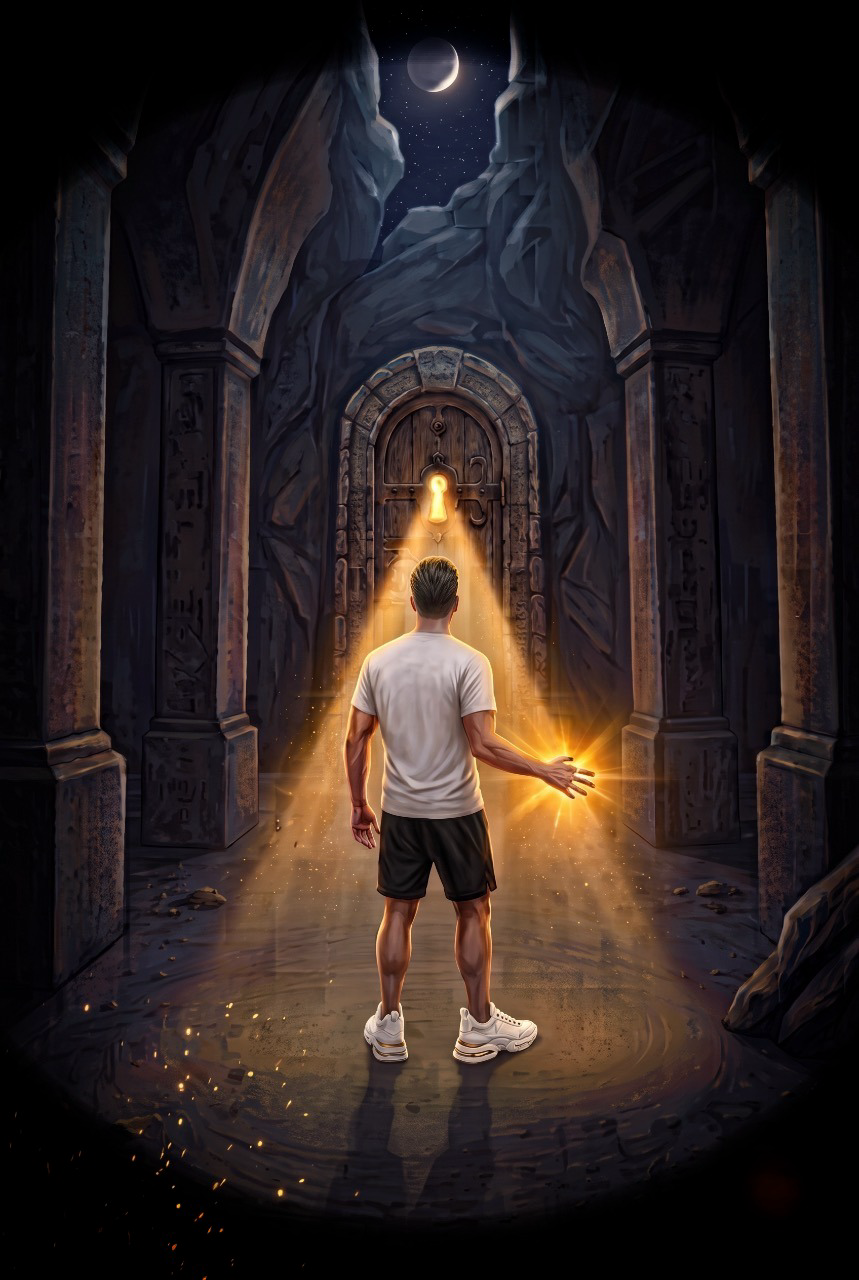
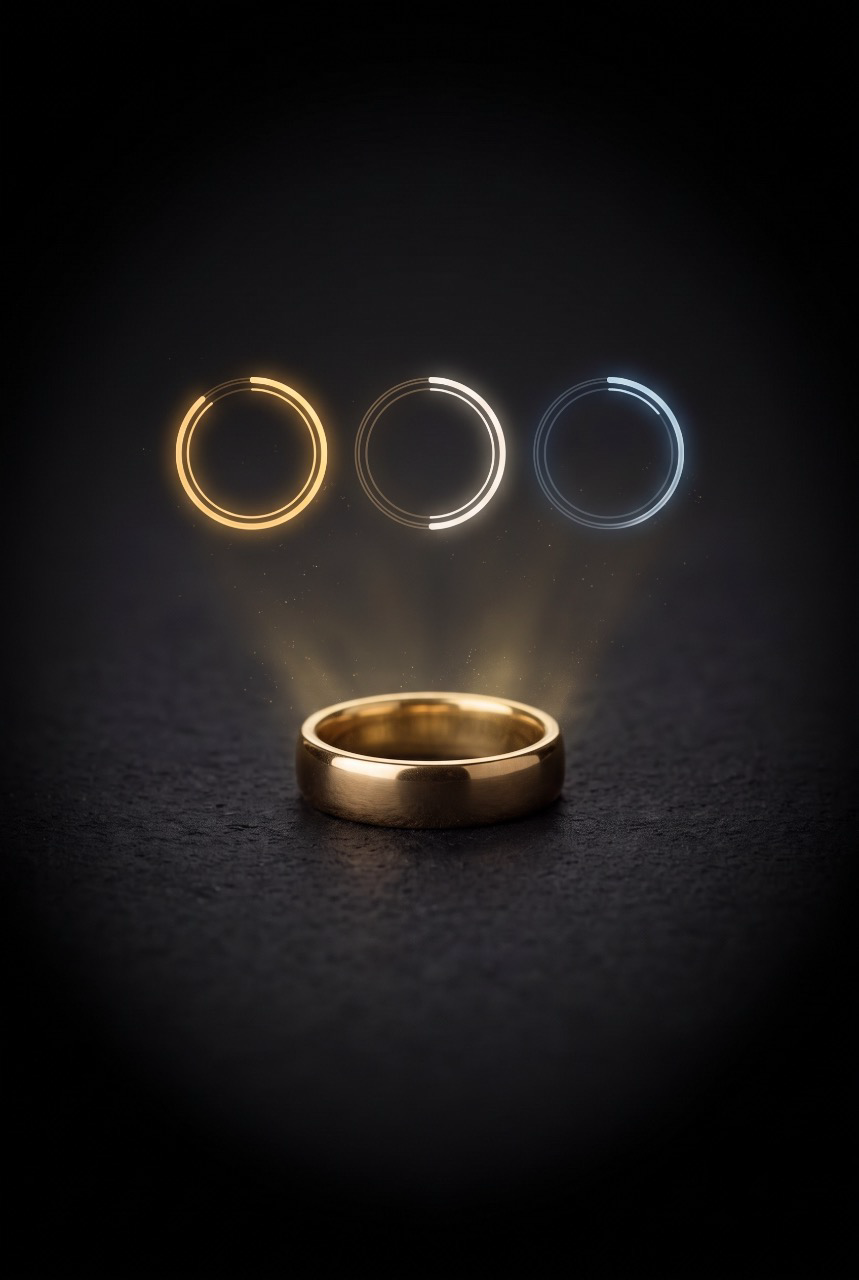
Слайды 3–4: новые рисунки и тексты, песочные часы на пустом дне, календарь без подписи
- step-3.png и step-4.png заменены на upd3 и upd4; тексты: «Три показателя дня» и «Персональный совет»;
- экран калибровки: песочные часы вместо логотипа;
- в листе календаря убрана подпись «Точка — за день есть Итог».

diff --git a/src/ui/Calibration.tsx b/src/ui/Calibration.tsx
@@ -1,5 +1,5 @@
 import { StyleSheet, Text, View } from 'react-native';
-import { Logo } from './Logo';
+import Svg, { Path } from 'react-native-svg';
 import { colors, spacing } from './theme';
 
 export const CALIBRATION_TITLE = 'Считаем вашу активность';
@@ -9,13 +9,25 @@ export const CALIBRATION_TEXT =
 export const CALIBRATION_PAST_TEXT = 'За этот день данных недостаточно.';
 
 /**
- * «Сегодня» для дня без всех трёх метрик. Частичные метрики и шаги здесь не показываем,
+ * «Сегодня» для дня без всех трёх метрик: песочные часы вместо логотипа. Частичные метрики и шаги здесь не показываем,
  * даже если что-то уже есть: неполная картина дня выглядела бы как оценка.
  */
+/** Песочные часы: данные ещё копятся. */
+function Hourglass({ size = 64 }: { size?: number }) {
+  const p = { stroke: colors.accent, strokeWidth: 1.6, strokeLinecap: 'round' as const, strokeLinejoin: 'round' as const };
+  return (
+    <Svg width={size} height={size} viewBox="0 0 24 24">
+      <Path {...p} fill="none" d="M6 3h12M6 21h12M7 3c0 4.5 5 6 5 9s-5 4.5-5 9M17 3c0 4.5-5 6-5 9s5 4.5 5 9" />
+      <Path d="M9.2 18.6c.9-1.4 2.8-2.1 2.8-3.6 0 1.5 1.9 2.2 2.8 3.6z" fill={colors.accent} opacity={0.85} />
+      <Path d="M9.8 6.8h4.4c-.6 1-1.4 1.6-2.2 2.2-.8-.6-1.6-1.2-2.2-2.2z" fill={colors.accent} opacity={0.5} />
+    </Svg>
+  );
+}
+
 export function Calibration({ today }: { today: boolean }) {
   return (
     <View style={styles.root}>
-      <Logo size={72} />
+      <Hourglass />
       {today ? <Text style={styles.title}>{CALIBRATION_TITLE}</Text> : null}
       <Text style={styles.text}>{today ? CALIBRATION_TEXT : CALIBRATION_PAST_TEXT}</Text>
     </View>

diff --git a/src/ui/TipIcons.tsx b/src/ui/TipIcons.tsx
@@ -2,7 +2,7 @@ import Svg, { Circle, Path, Rect } from 'react-native-svg';
 import { colors } from './theme';
 
 /** Иконки строк на карточках экрана загрузки. Простые линии 24×24 в акцентном цвете. */
-export type TipIcon = 'finger' | 'sensor' | 'fit' | 'pulse' | 'moon' | 'split' | 'total' | 'phone' | 'info';
+export type TipIcon = 'finger' | 'sensor' | 'fit' | 'pulse' | 'moon' | 'split' | 'total' | 'phone' | 'info' | 'steps' | 'heart' | 'spark';
 
 export function TipGlyph({ name, size = 22, color = colors.accent }: { name: TipIcon; size?: number; color?: string }) {
   const p = { stroke: color, strokeWidth: 1.7, strokeLinecap: 'round' as const, strokeLinejoin: 'round' as const, fill: 'none' };
@@ -38,6 +38,15 @@ export function TipGlyph({ name, size = 22, color = colors.accent }: { name: Tip
           <Path {...p} d="M4.5 16a8 8 0 1 1 15 0" />
           <Path {...p} d="M12 12l3.5-3" />
         </>
+      ) : name === 'steps' ? (
+        <>
+          <Path {...p} d="M8 3.5c1.7 0 2.5 1.8 2.5 4s-.8 4.5-2.5 4.5S5.5 9.7 5.5 7.5 6.3 3.5 8 3.5zM6 14.5h4v2a2 2 0 0 1-4 0z" />
+          <Path {...p} d="M16 7c1.7 0 2.5 1.8 2.5 4s-.8 4.5-2.5 4.5-2.5-2.3-2.5-4.5S14.3 7 16 7zM14 18h4v1.5a2 2 0 0 1-4 0z" />
+        </>
+      ) : name === 'heart' ? (
+        <Path {...p} d="M12 20s-7-4.4-7-10a4 4 0 0 1 7-2.6A4 4 0 0 1 19 10c0 5.6-7 10-7 10z" />
+      ) : name === 'spark' ? (
+        <Path {...p} d="M12 3.5c.9 3.6 1.9 4.7 5.5 5.6-3.6.9-4.6 1.9-5.5 5.6-.9-3.7-1.9-4.7-5.5-5.6 3.6-.9 4.6-2 5.5-5.6zM18.5 15c.4 1.6.9 2.1 2.5 2.5-1.6.4-2.1.9-2.5 2.5-.4-1.6-.9-2.1-2.5-2.5 1.6-.4 2.1-.9 2.5-2.5z" />
       ) : name === 'phone' ? (
         <>
           <Rect {...p} x={7} y={2.5} width={10} height={19} rx={2.5} />

diff --git a/src/ui/LoadingScreen.tsx b/src/ui/LoadingScreen.tsx
@@ -59,17 +59,21 @@ export const LOADING_TIPS: { title: string; lines: { icon: TipIcon; text: string
     ],
   },
   {
-    title: 'Считаем показатели',
+    // Рисунок: кольцо раскладывается на три кольца — три показателя дня.
+    title: 'Три показателя дня',
     lines: [
-      { icon: 'split', text: 'Сон, активность и состояние организма считаются отдельно' },
-      { icon: 'total', text: 'Итог появляется, когда есть все три' },
+      { icon: 'moon', text: 'Сон — сколько и насколько глубоко вы спали' },
+      { icon: 'steps', text: 'Активность — шаги и нагрузка за день' },
+      { icon: 'heart', text: 'Организм — пульс, вариабельность и кислород' },
     ],
   },
   {
-    title: 'Собираем итог',
+    // Рисунок: кольцо с AI-чипом собирает данные в итог.
+    title: 'Персональный совет',
     lines: [
-      { icon: 'phone', text: 'Данные остаются на телефоне' },
-      { icon: 'info', text: 'Приложение не заменяет врача' },
+      { icon: 'total', text: 'Итог дня складывается из всех трёх показателей' },
+      { icon: 'spark', text: 'Совет — о том, что сегодня проседает сильнее всего' },
+      { icon: 'phone', text: 'Всё считается на телефоне, данные никуда не уходят' },
     ],
   },
 ];

diff --git a/src/ui/Calendar.tsx b/src/ui/Calendar.tsx
@@ -58,7 +58,6 @@ export function CalendarButton() {
             );
           })}
         </View>
-        <Text style={styles.legend}>Точка — за день есть Итог</Text>
         <Pressable style={styles.secondary} onPress={() => pick(view.today)}>
           <Text style={styles.secondaryText}>Сегодня</Text>
         </Pressable>
@@ -87,7 +86,6 @@ const styles = StyleSheet.create({
   numberTextOn: { color: colors.bg, fontWeight: '600' },
   dot: { width: 5, height: 5, borderRadius: 2.5, backgroundColor: colors.accent, marginVertical: 4.5 },
   dotEmpty: { backgroundColor: 'transparent' },
-  legend: { color: colors.textFaint, fontSize: 12, textAlign: 'center' },
   secondary: { marginTop: spacing.md, paddingVertical: 12, alignItems: 'center', borderRadius: radius.card, backgroundColor: colors.track },
   secondaryText: { color: colors.text, fontSize: 16 },
 });

diff --git a/CLAUDE.md b/CLAUDE.md
@@ -34,7 +34,7 @@
 - Конец потока — по маркеру (раздел «Запуск и синхронизация»); первый пакет ждём до 12 с.
 
 ## Продукт
-- «Итог» (крупно) + три составляющие: сон, активность, организм. Организм считается по вариабельности и пульсу во сне, нужны оба входа. Итог растёт в течение дня по мере шагов. Утренний текст — про ночь, вечерний — про день. Названия не копируют Whoop, Oura, Garmin и т.п.
+- «Итог» (крупно) + три составляющие: сон, активность, организм. Организм — средний за день по замерам кольца (раздел «Организм (v2)»). Итог растёт в течение дня по мере шагов. Утренний текст — про ночь, вечерний — про день. Названия не копируют Whoop, Oura, Garmin и т.п.
 - ОТСУТСТВУЮЩИЕ ДАННЫЕ НЕ НОЛЬ. Нет данных = `null`. **Итог — только когда посчитаны все три** (сон, активность, организм); по одной или двум он не строится, веса не пересчитываются. День с итогом — «полный».
 - Отчёт с рекомендациями: шаблонный (30–40 фраз, выбор по самой слабой составляющей) через интерфейс `ReportGenerator`; позже — YandexGPT через собственный сервер-посредник. LLM сейчас НЕ подключать.
 - Данные и история (7 дней: сводки и выданные советы) — только на телефоне. Сервера и БД нет.
@@ -43,7 +43,7 @@
 - Никаких медицинских утверждений: без диагнозов, «усталость пройдёт», обещаний результата. Глюкоза и давление помечены «оценка», выводов и похвалы по ним нет.
 - Стиль UI: тёмный фон, один акцентный цвет (цветом выделяем только данные), крупные тонкие цифры, кольцевые индикаторы, минимум текста.
 - На карточке одна мысль. Пояснений абзацами на экранах нет. На Сне, Активности и Организме один «i» в шапке вкладки: описание метрик простыми словами (`src/domain/tab-info.ts`), без формул и чисел, в конце «Не медицинский показатель.». На карточках «i» нет, на «Сегодня» — тоже. Заголовков капслоком нет, радиус карточек один, рамок нет.
-- **Календарь вместо выбора на графиках.** В шапке каждой вкладки (кроме «Профиля») кнопка-календарь с датой («21 сен»); лист с полосой из 7 дней, точка под числом — есть данные. Выбранный день один на все вкладки (`selectedDay`), неполный сегодня — серый с замком и «Смотреть вчера», кнопка «Сегодня» в листе. Центральная вкладка подписана «Сегодня» или датой выбранного дня.
+- **Календарь вместо выбора на графиках.** В шапке каждой вкладки (кроме «Профиля») кнопка-календарь с датой («21 сен»); лист с полосой из 7 дней, точка под числом — у дня есть Итог (подписи-легенды нет). Выбранный день один на все вкладки (`selectedDay`), любой день недели выбирается, кнопка «Сегодня» в листе. Центральная вкладка подписана «Сегодня» или датой выбранного дня.
 - Общий дисклеймер живёт только в онбординге и в «О приложении». Сырой лог спрятан: пять нажатий на версию.
 
 ## Чего в приложении нет
@@ -86,6 +86,7 @@
 - **Статус настоящий:** «Подключаемся…» / «Загружаем данные · N %».
 - Смена карточки и рисунка — затухание 200 мс, свайпа нет. Рисунок — одна картинка в одном контейнере 4:5 (`ART_ASPECT`), «cover» по центру, мягкий градиент внизу в том же контейнере. Файлы `assets/loading/step-1.png … step-4.png` заменяются файлами с теми же именами; подгружаются заранее, при ошибке файла — векторная замена.
 - Заголовок карточки капслоком — по макету `reference/design/loading-mock.png` (исключение из правила «без капслока»).
+- Карточки: 1 «Как правильно носить кольцо», 2 «Забираем данные», 3 «Три показателя дня» (рисунок — кольцо и три кольца; сон, активность, организм), 4 «Персональный совет» (рисунок — кольцо с AI-чипом; итог, совет по слабой стороне, всё на телефоне).
 
 ## Профиль
 Вкладка «Профиль»: карточки «Имя» (вверху, с подписью «Имя хранится только на вашем телефоне. Мы не собираем данные.»), «Биометрия» (пол, рост, вес, год рождения), «Цель». Имя к биометрии не относится. Хранится только на телефоне, в сеть не уходит.
@@ -118,7 +119,7 @@
 - При каждом входе (запуск и возврат из фона) открывается сегодняшняя дата, в том числе ночью; выбор из календаря сбрасывается. «Сегодня» сверяется с часами телефона раз в минуту (`CLOCK_CHECK_MS`). `DAY_START_HOUR` (04:00) влияет только на ночные сессии синхронизации.
 - День «с данными» — если в кэше есть хоть один тип: шаги, сон, пульс, сводка или кислород.
 - Оценка считается для каждого дня по данным того дня.
-- **Экран калибровки вместо переброса на вчера.** По умолчанию выбран сегодняшний день. Если у выбранного дня нет всех трёх метрик, «Сегодня» показывает только логотип, заголовок «Считаем вашу активность» и «Чтобы показатели за сегодня были точными, нам нужно больше данных. Дайте кольцу привыкнуть — осталось буквально несколько часов!» (для прошлого дня — «За этот день данных недостаточно.») — без частичных метрик и шагов. Сон, Активность, Организм для такого дня приглушены и не открываются (вибрация «нет»), открытая вкладка переключается на «Сегодня». Календарь работает всегда; точка в нём — у дней с Итогом.
+- **Экран калибровки вместо переброса на вчера.** По умолчанию выбран сегодняшний день. Если у выбранного дня нет всех трёх метрик, «Сегодня» показывает только песочные часы (вместо логотипа), заголовок «Считаем вашу активность» и «Чтобы показатели за сегодня были точными, нам нужно больше данных. Дайте кольцу привыкнуть — осталось буквально несколько часов!» (для прошлого дня — «За этот день данных недостаточно.») — без частичных метрик и шагов. Сон, Активность, Организм для такого дня приглушены и не открываются (вибрация «нет»), открытая вкладка переключается на «Сегодня». Календарь работает всегда; точка в нём — у дней с Итогом.
 - **Плашки: видна одна**, по приоритету: ошибка синхронизации → «Биометрия не настроена» → «Цель не выбрана» (`bannerKind`).
 - **Совет — только для полного дня.** В историю пишется совет последнего полного дня.
 - Недельный график показывает дни от первого с данными до последнего с данными; хвостовые пустые дни не рисуются.
